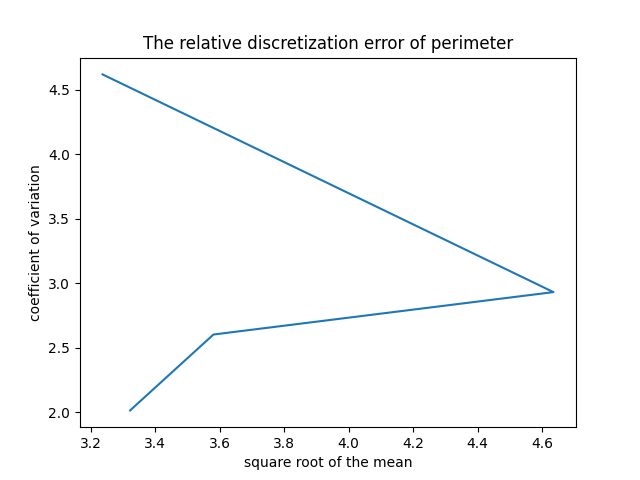
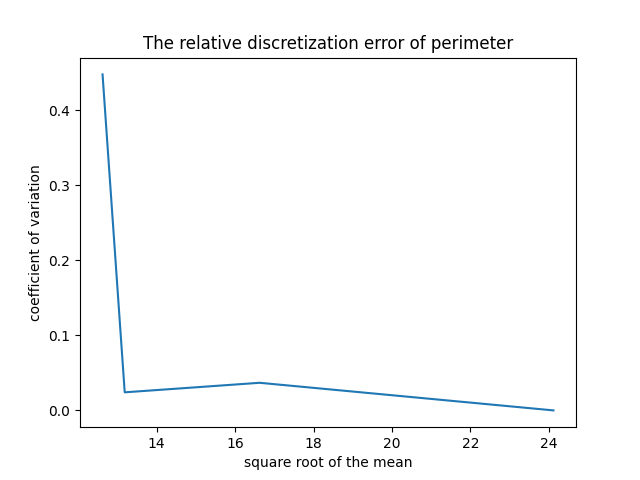
Plots fixed

diff --git a/adela/asm2_rosa.py b/adela/asm2_rosa.py
@@ -133,19 +133,19 @@ if __name__ == '__main__':
                 # Here, also measure size and perimeter per image and per Gaussian filter with certain filter (for part 2.3, question 7)
                 sizes, perimeters = measure_size_and_perimeter(curr_gauss_img)
 
-                # Filters all irrelevant objects from incorrect segmentations
-                UtilFunctions.print_largest_measurements(sizes[0], perimeters[0])
+                # Filters all irrelevant objects from incorrect segmentations returns size and perimeter mean and std
+                s_mean, s_std, p_mean, p_std = UtilFunctions.print_largest_measurements(sizes[0], perimeters[0])
 
                 # Then, get the statistics (mean and std) from these measurements
-                mean, std = UtilFunctions.get_mean_std(sizes)
-                mean_size.append(mean)
-                std_size.append(std)
-                print("Size:  | mean    ", mean, " | std    ", std, "  |")
+                # mean, std = UtilFunctions.get_mean_std(sizes)
+                mean_size.append(s_mean)
+                std_size.append(s_std)
+                print("Size:  | mean    ", s_mean, " | std    ", s_std, "  |")
 
-                mean, std = UtilFunctions.get_mean_std(perimeters)
-                mean_perimeter.append(mean)
-                std_perimeter.append(std)
-                print("Perimeter:  | mean    ", mean, "  | std    ", std, "  |")
+                # mean, std = UtilFunctions.get_mean_std(perimeters)
+                mean_perimeter.append(p_mean)
+                std_perimeter.append(p_std)
+                print("Perimeter:  | mean    ", p_mean, "  | std    ", p_std, "  |")
 
             print("Plots for gauss filter " + str(gauss_parameter_value))
             # Now, all the mean and std values are known for images (rect)1-4 that are used for the following:
@@ -181,18 +181,18 @@ if __name__ == '__main__':
                 sizes, perimeters = measure_size_and_perimeter(curr_median_img)
 
                 # Filters all irrelevant objects from incorrect segmentations
-                UtilFunctions.print_largest_measurements(sizes[0], perimeters[0])
+                s_mean, s_std, p_mean, p_std = UtilFunctions.print_largest_measurements(sizes[0], perimeters[0])
 
                 # Then, get the statistics (mean and std) from these measurements
-                mean, std = UtilFunctions.get_mean_std(sizes)
-                mean_size.append(mean)
-                std_size.append(std)
-                print("Size:  | mean    ", mean, " | std    ", std, "  |")
+                # mean, std = UtilFunctions.get_mean_std(sizes)
+                mean_size.append(s_mean)
+                std_size.append(s_std)
+                print("Size:  | mean    ", s_mean, " | std    ", s_std, "  |")
 
-                mean, std = UtilFunctions.get_mean_std(perimeters)
-                mean_perimeter.append(mean)
-                std_perimeter.append(std)
-                print("Perimeter:  | mean    ", mean, "  | std    ", std, "  |")
+                # mean, std = UtilFunctions.get_mean_std(perimeters)
+                mean_perimeter.append(p_mean)
+                std_perimeter.append(p_std)
+                print("Perimeter:  | mean    ", p_mean, "  | std    ", p_std, "  |")
 
             print("Plots for median filter " + median_parameter)
             # Now, all the mean and std values are known for images (rect)1-4 that are used for the following:

diff --git a/adela/util.py b/adela/util.py
@@ -42,7 +42,6 @@ class UtilFunctions:
 
         return mean, std
 
-
     @staticmethod
     def print_largest_measurements(sizes: [], perimeters: []):
         index_sorted = numpy.flip((numpy.argsort(sizes)))
@@ -58,12 +57,16 @@ class UtilFunctions:
         print("Only relevant objects:")
         print(sizes_top)
         print(perimeters_top)
-        mean, std = UtilFunctions.get_mean_std(sizes_top)
-        print("sizes mean ", mean, " | sizes std ", std)
+        # size meadn and std
+        s_mean, s_std = UtilFunctions.get_mean_std(sizes_top)
+        print("sizes mean ", s_mean, " | sizes std ", s_std)
 
-        mean, std = UtilFunctions.get_mean_std(perimeters_top)
-        print("perimeters mean ", mean, " | perimeters std ", std)
+        # perimeter mean and std
+        p_mean, p_std = UtilFunctions.get_mean_std(perimeters_top)
+        print("perimeters mean ", p_mean, " | perimeters std ", p_std)
         print("----------------------------------")
+
+        return s_mean, s_std, p_mean, p_std
 
 
     @staticmethod

diff --git a/rosa/util.py b/rosa/util.py
@@ -58,12 +58,16 @@ class UtilFunctions:
         print("Only relevant objects:")
         print(sizes_top)
         print(perimeters_top)
-        mean, std = UtilFunctions.get_mean_std(sizes_top)
-        print("sizes mean ", mean, " | sizes std ", std)
+        # size meadn and std
+        s_mean, s_std = UtilFunctions.get_mean_std(sizes_top)
+        print("sizes mean ", s_mean, " | sizes std ", s_std)
 
-        mean, std = UtilFunctions.get_mean_std(perimeters_top)
-        print("perimeters mean ", mean, " | perimeters std ", std)
+        # perimeter mean and std
+        p_mean, p_std = UtilFunctions.get_mean_std(perimeters_top)
+        print("perimeters mean ", p_mean, " | perimeters std ", p_std)
         print("----------------------------------")
+
+        return s_mean, s_std, p_mean, p_std
 
 
     @staticmethod
